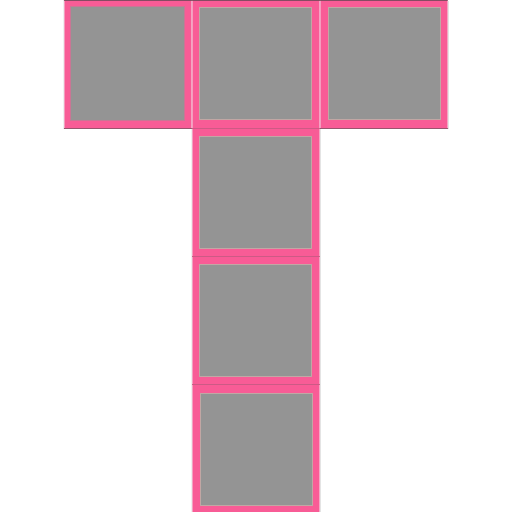
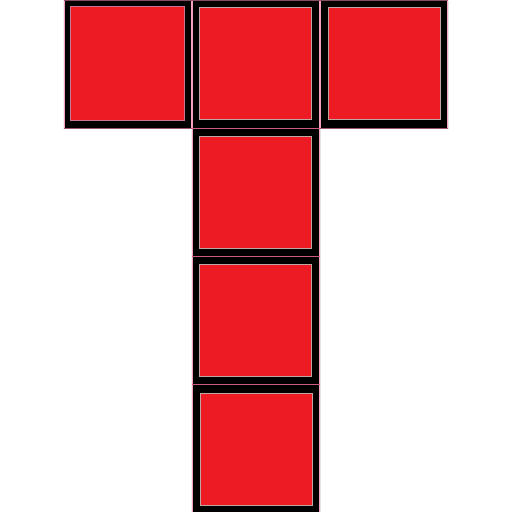
Changelog: - Temporarily removed MidPoints + Replaced default anchor skin with hl3hl3 skin

diff --git a/app/src/main/java/com/google/ar/core/examples/java/helloar/HelloArActivity.java b/app/src/main/java/com/google/ar/core/examples/java/helloar/HelloArActivity.java
@@ -85,7 +85,6 @@ import com.google.ar.core.exceptions.UnavailableUserDeclinedInstallationExceptio
 import java.io.IOException;
 import java.io.InputStream;
 import java.math.BigDecimal;
-import java.math.RoundingMode;
 import java.nio.ByteBuffer;
 import java.util.ArrayList;
 import java.util.HashMap;
@@ -170,6 +169,12 @@ public class HelloArActivity extends AppCompatActivity implements SampleRender.R
   private Shader virtualObjectShader;
   private Texture virtualObjectAlbedoTexture;
   private Texture virtualObjectAlbedoInstantPlacementTexture;
+
+  /** Line Render Variables */
+  // Virtual line
+  private Mesh virtualLineMesh;
+  private Shader virtualLineShader;
+  private Texture virtualLineTexture;
 
   private final List<WrappedAnchor> wrappedAnchors = new ArrayList<>();
   private final List<WrappedAnchor> midAnchors = new ArrayList<>();
@@ -447,15 +452,15 @@ public class HelloArActivity extends AppCompatActivity implements SampleRender.R
       virtualObjectAlbedoTexture =
           Texture.createFromAsset(
               render,
-              "models/pawn_albedo.png",
-//              "models/hl3hl3/cube_cyan.png",
+//              "models/pawn_albedo.png",
+              "models/hl3hl3/cube_green.png",
               Texture.WrapMode.CLAMP_TO_EDGE,
               Texture.ColorFormat.SRGB);
       virtualObjectAlbedoInstantPlacementTexture =
           Texture.createFromAsset(
               render,
-              "models/pawn_albedo_instant_placement.png",
-//                  "models/hl3hl3/cube_green.png",
+//              "models/pawn_albedo_instant_placement.png",
+                  "models/hl3hl3/cube_cyan.png",
               Texture.WrapMode.CLAMP_TO_EDGE,
               Texture.ColorFormat.SRGB);
       Texture virtualObjectPbrTexture =
@@ -465,8 +470,8 @@ public class HelloArActivity extends AppCompatActivity implements SampleRender.R
               Texture.WrapMode.CLAMP_TO_EDGE,
               Texture.ColorFormat.LINEAR);
 
-      virtualObjectMesh = Mesh.createFromAsset(render, "models/pawn.obj");
-//      virtualObjectMesh = Mesh.createFromAsset(render, "models/hl3hl3/cube.obj");
+//      virtualObjectMesh = Mesh.createFromAsset(render, "models/pawn.obj");
+      virtualObjectMesh = Mesh.createFromAsset(render, "models/hl3hl3/cube.obj");
       virtualObjectShader =
           Shader.createFromAssets(
                   render,
@@ -629,6 +634,12 @@ public class HelloArActivity extends AppCompatActivity implements SampleRender.R
 
     // Visualize anchors created by touch.
     render.clear(virtualSceneFramebuffer, 0f, 0f, 0f, 0f);
+
+    // Stores anchors for exisitng wrappedAnchors for use in rendering connecting lines
+    List<Pose> anchors = new ArrayList<>();
+    Pose anchor1;
+    Pose anchor2;
+
     for (WrappedAnchor wrappedAnchor : wrappedAnchors) {
       Anchor anchor = wrappedAnchor.getAnchor();
       Trackable trackable = wrappedAnchor.getTrackable();
@@ -639,6 +650,9 @@ public class HelloArActivity extends AppCompatActivity implements SampleRender.R
       // Get the current pose of an Anchor in world space. The Anchor pose is updated
       // during calls to session.update() as ARCore refines its estimate of the world.
       anchor.getPose().toMatrix(modelMatrix, 0);
+
+      // Adds anchor poses to list for connecting line vertex determination
+      anchors.add(anchor.getPose());
 
 
       /** This is the previous location of the measureDistance() function call */
@@ -696,7 +710,10 @@ public class HelloArActivity extends AppCompatActivity implements SampleRender.R
       render.draw(virtualObjectMesh, virtualObjectShader, virtualSceneFramebuffer);
     }
 
-
+    // If two WrappedAnchors currently exist and therefore a line should be rendered between them
+    if (anchors.size() == 2) {
+      // TODO: implement render.draw() to render line
+    }
 
     // Compose the virtual scene with the background.
     backgroundRenderer.drawVirtualScene(render, virtualSceneFramebuffer, Z_NEAR, Z_FAR);
@@ -746,7 +763,7 @@ public class HelloArActivity extends AppCompatActivity implements SampleRender.R
           // TODO: Review function call for robustness
           if (wrappedAnchors.size() == 2) {
             measureDistanceOf2Points();
-            placeMidPointAnchor();
+            //placeMidPointAnchor();
           }
 
           // For devices that support the Depth API, shows a dialog to suggest enabling
@@ -988,15 +1005,6 @@ public class HelloArActivity extends AppCompatActivity implements SampleRender.R
       measureDistanceOf2Points(distanceMeter)
     }
   }
-
-
-  private void measureDistanceOf2Points(Float distanceMeter){
-    val distanceTextCM = makeDistanceTextWithCM(distanceMeter)
-    val textView = (distanceCardViewRenderable!!.view as LinearLayout)
-            .findViewById<TextView>(R.id.distanceCard)
-            textView.text = distanceTextCM
-//    Log.d(TAG, "distance: ${distanceTextCM}")
-  }
 */
 
   /** Displays the distance between two anchors */
@@ -1046,29 +1054,6 @@ public class HelloArActivity extends AppCompatActivity implements SampleRender.R
     }
   }
 */
-/*
-  private void tapDistanceOf2Points(HitResult hitResult){
-    if (wrappedAnchors.size() == 0){
-      createAnchor(hitResult, null);
-    }
-    else if (wrappedAnchors.size() == 1){
-      createAnchor(hitResult, null);
-
-      float[] midPosition = new Array<Float>(
-              (wrappedAnchors.get(0).getAnchor().getPose().tx() + wrappedAnchors.get(1).getAnchor().getPose().tx()) / 2,
-              (wrappedAnchors.get(0).getAnchor().getPose().ty() + wrappedAnchors.get(1).getAnchor().getPose().ty()) / 2,
-              (wrappedAnchors.get(0).getAnchor().getPose().tz() + wrappedAnchors.get(1).getAnchor().getPose().tz()) / 2);
-      float[] quaternion = new float[](0.0f,0.0f,0.0f,0.0f);
-      Pose pose = new Pose(midPosition, quaternion);
-
-      placeMidAnchor(pose, distanceCardViewRenderable!!)
-    }
-    else {
-      clearAllAnchors()
-      placeAnchor(hitResult, cubeRenderable!!)
-    }
-  }
-*/
 
   private void placeMidPointAnchor(){
     placeMidPointAnchor(wrappedAnchors.get(0).getAnchor().getPose(), wrappedAnchors.get(1).getAnchor().getPose());
@@ -1099,32 +1084,6 @@ public class HelloArActivity extends AppCompatActivity implements SampleRender.R
     Pose midPoint = new Pose(midTranslation, midRotation);
     midAnchors.add(new WrappedAnchor(session.createAnchor(midPoint), null));
   }
-
-/*  private void placeMidAnchor(pose: Pose,
-                             renderable: Renderable,
-                             between: Array<Int> = arrayOf(0,1)){
-    val midKey = "${between[0]}_${between[1]}"
-    val anchor = arFragment!!.arSceneView.session!!.createAnchor(pose)
-    midAnchors.put(midKey, anchor)
-
-    val anchorNode = AnchorNode(anchor).apply {
-      isSmoothed = true
-      setParent(arFragment!!.arSceneView.scene)
-    }
-    midAnchorNodes.put(midKey, anchorNode)
-
-    val node = TransformableNode(arFragment!!.transformationSystem)
-            .apply{
-      this.rotationController.isEnabled = false
-      this.scaleController.isEnabled = false
-      this.translationController.isEnabled = true
-      this.renderable = renderable
-      setParent(anchorNode)
-    }
-    arFragment!!.arSceneView.scene.addOnUpdateListener(this)
-    arFragment!!.arSceneView.scene.addChild(anchorNode)
-  }
-*/
 
 }
 
